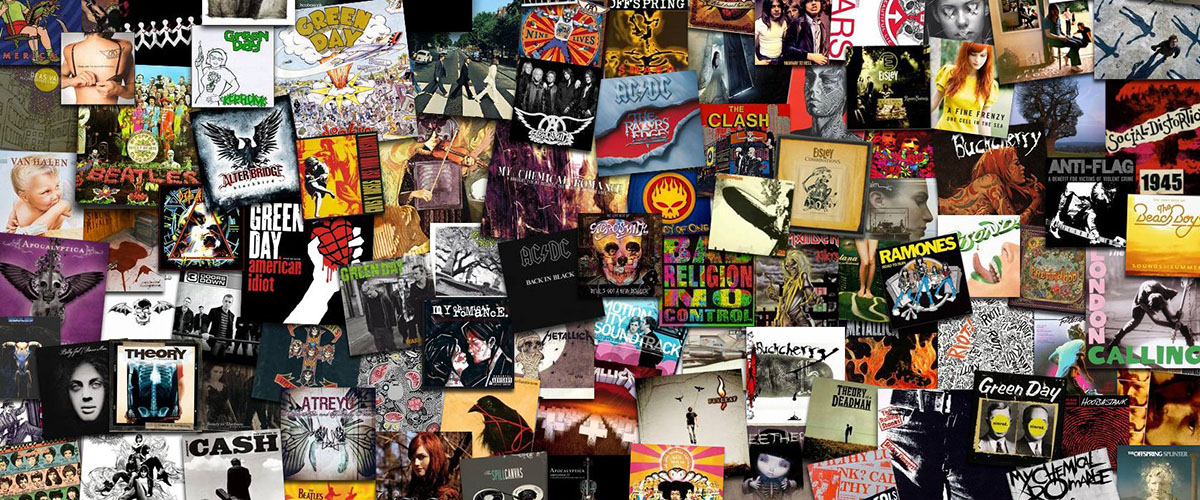
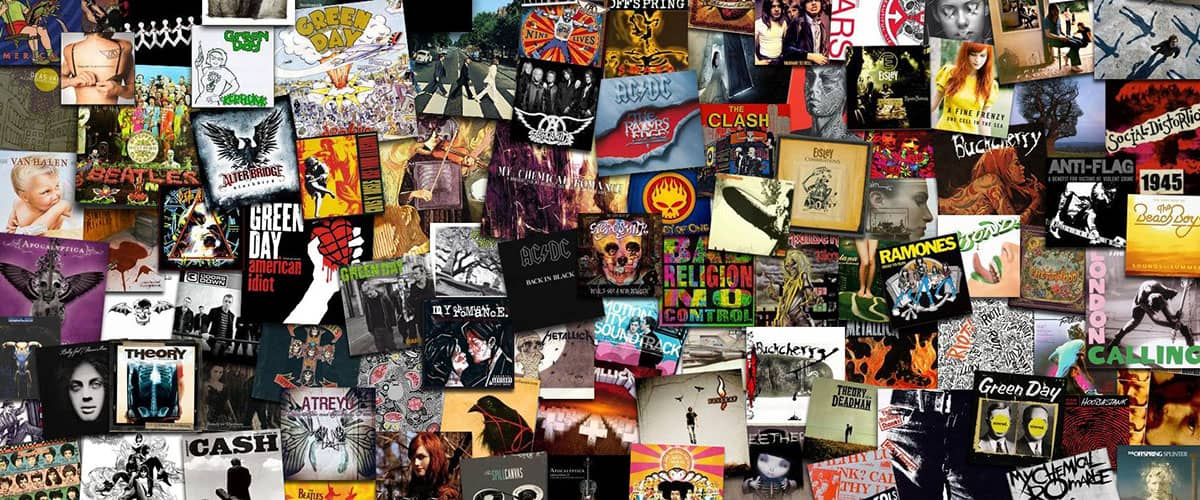
optimize image

diff --git a/pages/index.js b/pages/index.js
@@ -4,7 +4,7 @@ import fs from "fs";
 import path from "path";
 
 function HomePagePage(props) {
-  return <HomePage {...props}/>;
+  return <HomePage {...props} />;
 }
 
 export async function getStaticProps() {
@@ -12,17 +12,23 @@ export async function getStaticProps() {
   const fileData = fs.readFileSync(filePath);
   const data = JSON.parse(fileData);
 
-  const vietnameseAlbum = data.musicData.filter((album) => ["5", "10", "14", "33"].includes(album.id))
-  const internationalAlbum = data.musicData.filter((album) => ["6", "32", "26", "18"].includes(album.id))
-  const albumOfTheWeek = data.musicData.filter((album) => ["23"].includes(album.id))
+  const vietnameseAlbum = data.musicData.filter((album) =>
+    ["5", "10", "14", "33"].includes(album.id)
+  );
+  const internationalAlbum = data.musicData.filter((album) =>
+    ["6", "32", "26", "18"].includes(album.id)
+  );
+  const albumOfTheWeek = data.musicData.filter((album) =>
+    ["23"].includes(album.id)
+  );
 
   return {
-    props:{
+    props: {
       vietnameseAlbum,
       internationalAlbum,
       albumOfTheWeek,
-    }
-  }
+    },
+  };
 }
 
 export default HomePagePage;

diff --git a/next.config.js b/next.config.js
@@ -13,9 +13,7 @@ module.exports = {
       "lh6.googleusercontent.com",
       "lh7.googleusercontent.com",
       "storage.googleapis.com",
-      "res.cloudinary.com"
+      "res.cloudinary.com",
     ],
   },
 };
-
-
